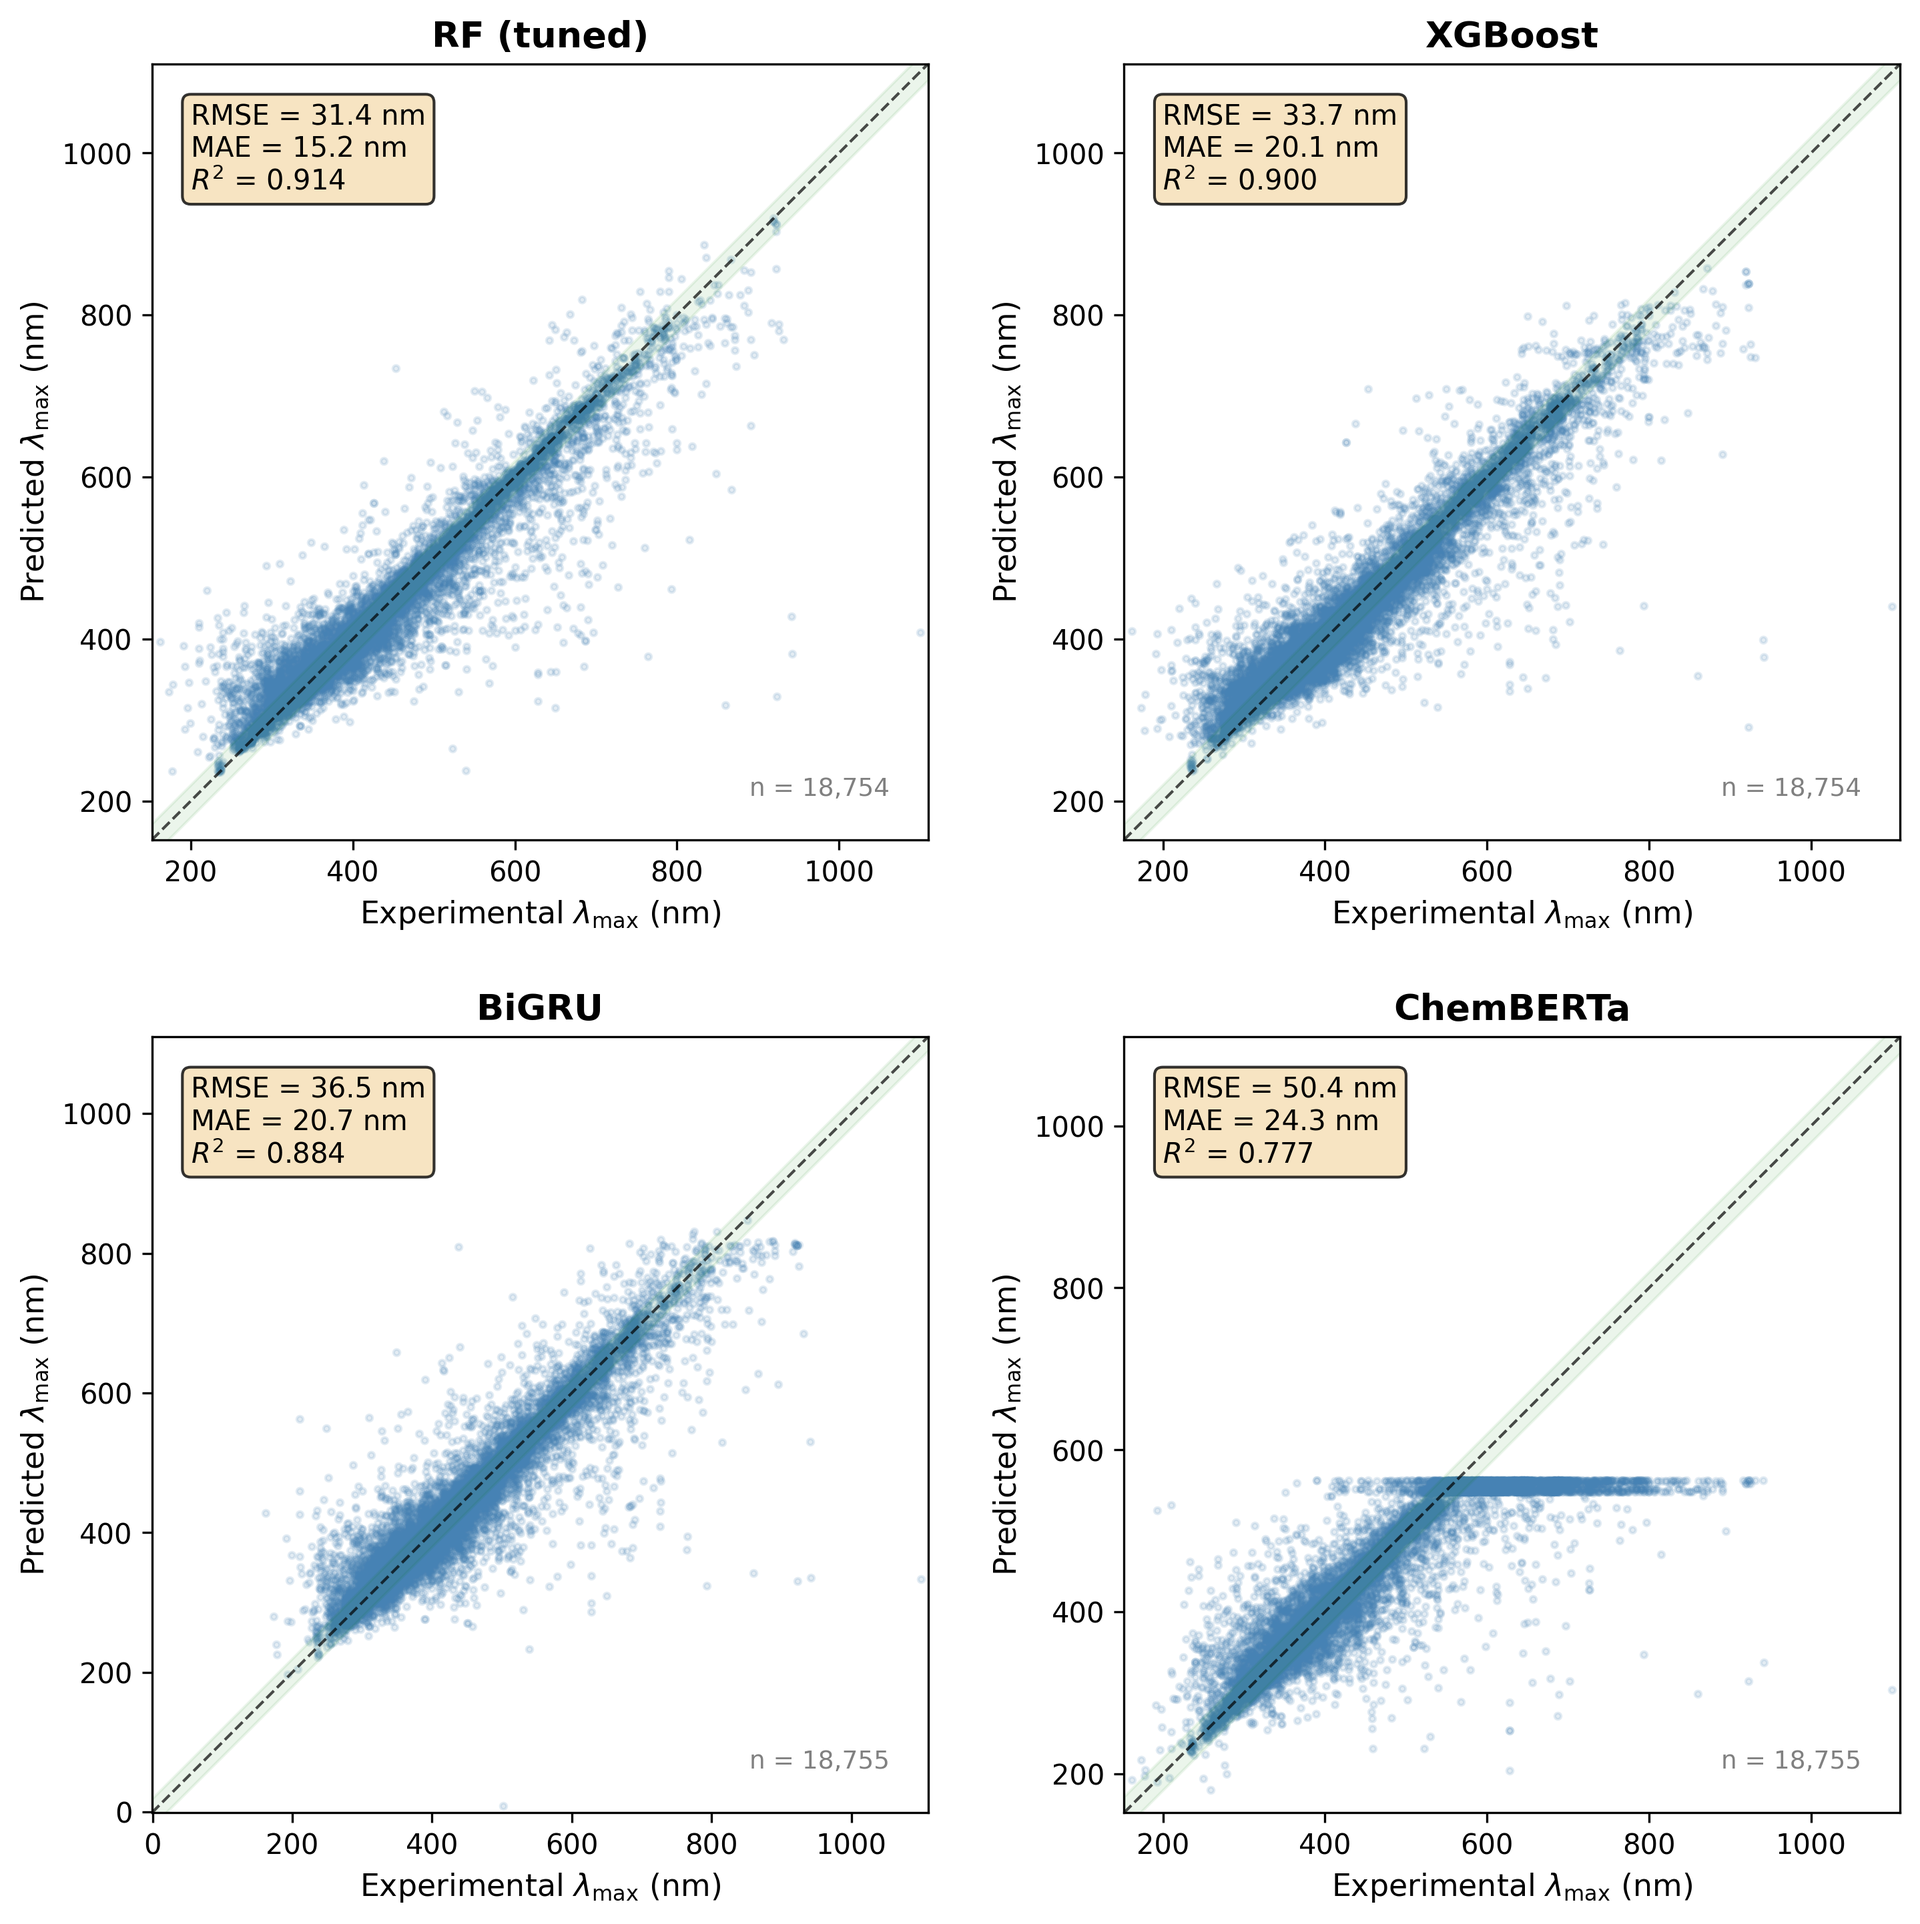
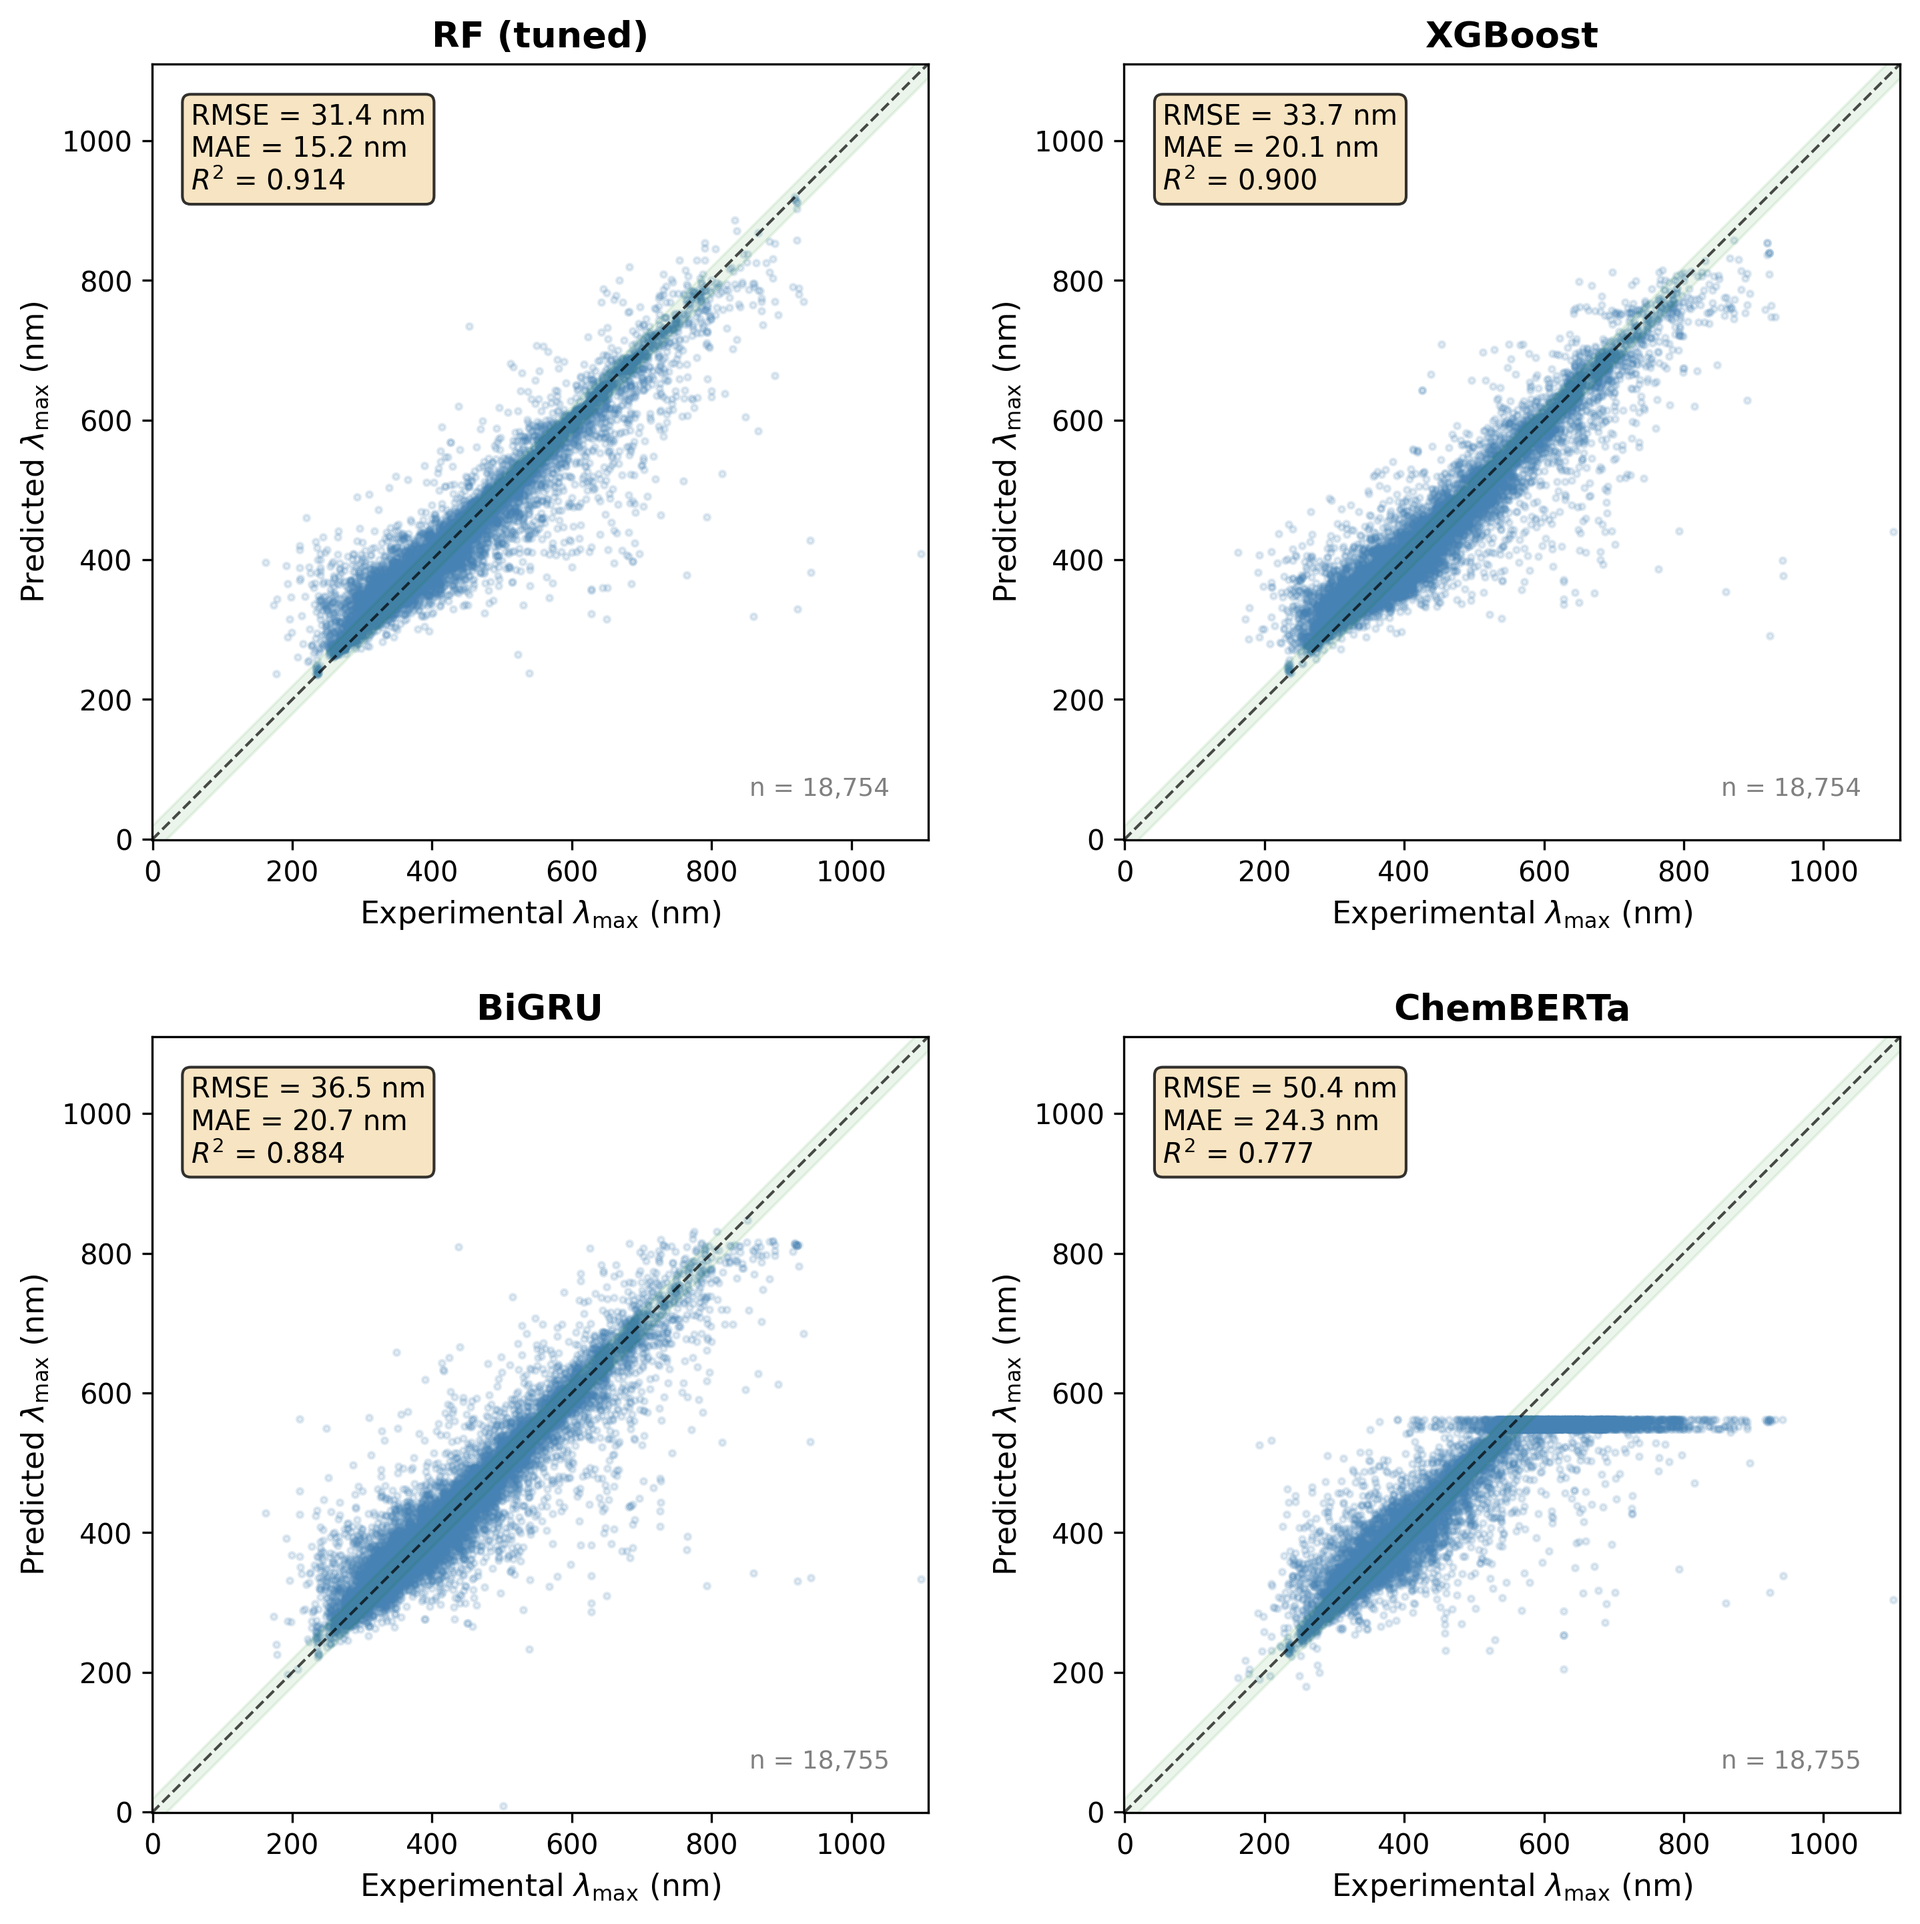
Fix parity plot: use shared axis limits to properly show ChemBERTa saturation
ChemBERTa predictions cap at ~560nm while true values reach 1100nm. With
per-panel auto-scaling this looked like a mysterious blue band; shared axes
make the saturation effect clear and the comparison fair across all 4 models.

diff --git a/make_parity_plot.py b/make_parity_plot.py
@@ -45,11 +45,20 @@ def main():
         ("ChemBERTa", "chemberta"),
     ]
 
+    # Load all data first to compute shared axis limits
+    all_data = []
+    for name, prefix in models:
+        y_true, y_pred = load_pooled(prefix)
+        all_data.append((name, y_true, y_pred))
+
+    global_min = min(min(y.min(), p.min()) for _, y, p in all_data) - 10
+    global_max = max(max(y.max(), p.max()) for _, y, p in all_data) + 10
+    lims = [global_min, global_max]
+
     fig, axes = plt.subplots(2, 2, figsize=(10, 10))
     axes = axes.flatten()
 
-    for ax, (name, prefix) in zip(axes, models):
-        y_true, y_pred = load_pooled(prefix)
+    for ax, (name, y_true, y_pred) in zip(axes, all_data):
         rmse = np.sqrt(mean_squared_error(y_true, y_pred))
         mae = mean_absolute_error(y_true, y_pred)
         r2 = r2_score(y_true, y_pred)
@@ -57,8 +66,6 @@ def main():
         ax.scatter(y_true, y_pred, alpha=0.15, s=5, c="steelblue", rasterized=True)
 
         # Perfect prediction line
-        lims = [min(y_true.min(), y_pred.min()) - 10,
-                max(y_true.max(), y_pred.max()) + 10]
         ax.plot(lims, lims, "k--", linewidth=1, alpha=0.7)
 
         # ±20 nm bands
